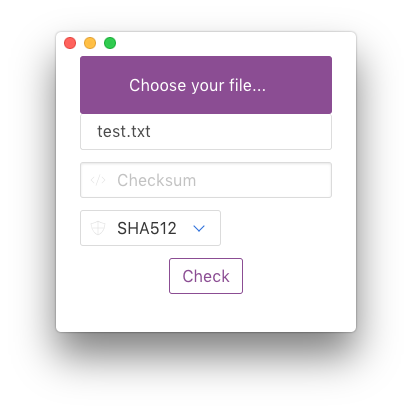
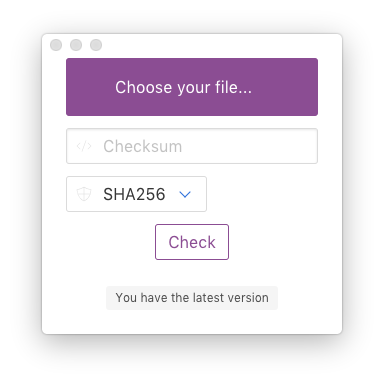
New image and text in update section on the README

diff --git a/README.md b/README.md
@@ -1,6 +1,6 @@
 #  checksum-validator
 
-checksum-validator is a small convenient Electron application, which can quickly calculate hashes of files. This is mainly intended to verify the checksums of downloaded files. 
+checksum-validator is a small convenient Electron application, which can quickly calculate hashes of files. This is primarily intended to verify the checksums of downloaded files. 
 
 
 # Usage
@@ -16,19 +16,22 @@ Head over to the [releases section](https://github.com/alexanderwe/checksum-vali
 After installing it you are ready to use checksum-validator.
 
 ## Update
-The application will always check if there is a new version at startup. After that you can always manually update.
+On start the application will check if an update is available. If this is the case, the small tag on the bottom will change and on click the update will be downloaded and installed. You can also trigger this check by `checksum-validator --> Check for updates...`
+
+
+![img1](https://github.com/alexanderwe/checksum-validator/blob/master/.github/img/img1.png)
+
+
 
 ## Calculate checksum
 
 To calculate and check the checksum of files, either drag them onto the application pane or open them via the `Choose file...` button. Then select your preferred hash algorithm and insert the hash to check against. 
 
-![img1](https://github.com/alexanderwe/checksum-validator/blob/master/.github/img/img1.png)
-
 ![img2](https://github.com/alexanderwe/checksum-validator/blob/master/.github/img/img2.png)
 
 # How was it built ?
 
-This project was only possible with these awesome technologies !
+This project is only possible with these awesome technologies !
 
 * [Electron](https://github.com/electron/electron)
 * [React](https://github.com/facebook/react)
